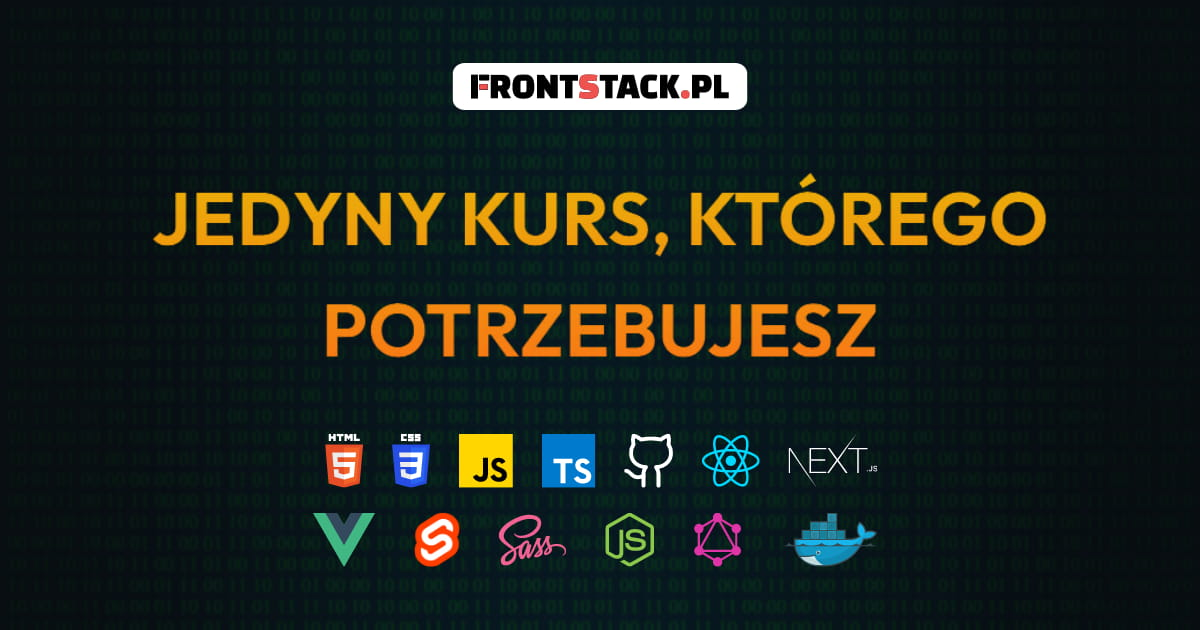
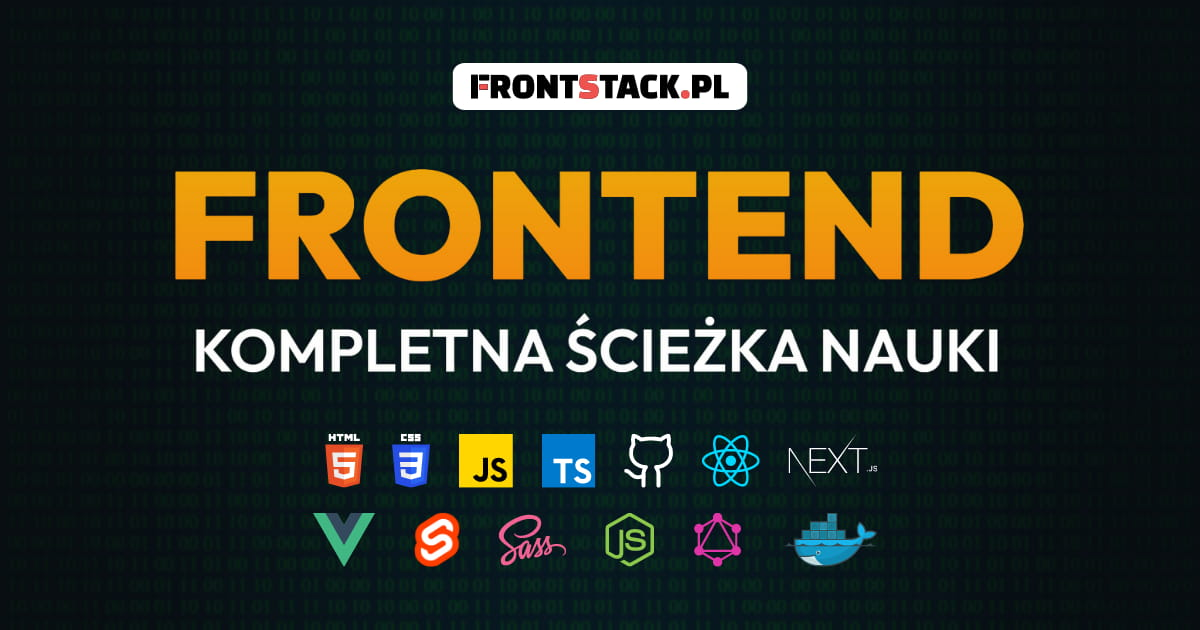
rename course

Changed region(s): [[0.1233, 0.2714, 0.8942, 0.4524], [0.1542, 0.4825, 0.8325, 0.6032]]

diff --git a/app/kurs/page.tsx b/app/kurs/page.tsx
@@ -21,14 +21,17 @@ const arrayOfTech = [
 
 export const metadata = {
   title: "Kurs - Programista Frontend",
-  description: "Jedyny kurs frontend, którego potrzebujesz.",
+  description:
+    "Kompletna ścieżka nauki frontendu dla początkujących oraz doświadczonych programistów ",
 };
 
 const Kurs = () => {
   return (
     <main className={styles.root}>
       <header className={styles.hero}>
-        <h1>Jedyny kurs, którego potrzebujesz</h1>
+        <h1>
+          Frontend <span>Kompletna ścieżka nauki</span>
+        </h1>
         <p>
           <span>
             Opanuj w końcu <strong>FRONTEND</strong>, a nie tylko
@@ -39,15 +42,16 @@ const Kurs = () => {
 
       <section className={styles.chatWrapper}>
         <div>
-          <Button as="a" href="#tldr" size="sm">
-            TL;DR
+          <Button as="a" href="#informacje" size="sm">
+            TL;DR <span>👇</span>
           </Button>
+          <small>Pomiń czat i zobacz najważniejsze informacje</small>
         </div>
         <Chat qa={qa} />
         <SendButton />
       </section>
 
-      <div id="tldr" className={styles.tldr}>
+      <div id="informacje" className={styles.info}>
         Najważniejsze informacje
       </div>
 

diff --git a/app/kurs/kurs.module.scss b/app/kurs/kurs.module.scss
@@ -4,14 +4,31 @@
   margin: 50px 0;
   text-align: center;
   h1 {
+    font-size: 72px;
+    font-weight: 900;
     text-transform: uppercase;
     @include mixins.orangeGradientText;
     @media screen and (max-width: 768px) {
-      font-size: 32px;
+      font-size: 56px;
+    }
+    span {
+      display: block;
+      font-size: 24px;
+      font-weight: 600;
+      margin-top: -20px;
+      @media screen and (max-width: 768px) {
+        font-size: 22px;
+      }
     }
   }
 
   p {
+    & > span:first-of-type {
+      margin-left: 20px;
+      @media screen and (max-width: 768px) {
+        margin-left: auto;
+      }
+    }
     strong {
       @include mixins.redGradientText;
       font-weight: bold;
@@ -23,12 +40,15 @@
   margin: 32px 0;
   & > div:first-child {
     display: flex;
+    flex-direction: column;
     justify-content: center;
+    align-items: center;
     margin: 32px;
+    text-align: center;
   }
 }
 
-.tldr {
+.info {
   margin: 64px;
   font-weight: bold;
   text-align: center;

diff --git a/app/components/hero/Hero.tsx b/app/components/hero/Hero.tsx
@@ -6,11 +6,13 @@ export const Hero = () => {
     <section className={styles.root}>
       <h1>Blog frontstack.pl</h1>
       <div>
-        <h2>Sprawdź jedyny kurs, którego potrzebujesz</h2>
+        <h2>Poznaj kompleksową ścieżkę nauki frontendu</h2>
         <p>Najlepsze materiały, serwowane w najlepszej kolejności 💪</p>
-        <Button as="link" href="/kurs" size="sm">
-          Zobacz więcej
-        </Button>
+        <div className="animate-bounce">
+          <Button as="link" href="/kurs" size="sm">
+            Zobacz więcej
+          </Button>
+        </div>
       </div>
     </section>
   );

diff --git a/app/styles/animation.scss b/app/styles/animation.scss
@@ -1,0 +1,19 @@
+@keyframes bounce {
+  0%,
+  to {
+    transform: translateY(-25%);
+    -webkit-animation-timing-function: cubic-bezier(0.8, 0, 1, 1);
+    animation-timing-function: cubic-bezier(0.8, 0, 1, 1);
+  }
+
+  50% {
+    transform: none;
+    -webkit-animation-timing-function: cubic-bezier(0, 0, 0.2, 1);
+    animation-timing-function: cubic-bezier(0, 0, 0.2, 1);
+  }
+}
+
+.animate-bounce {
+  -webkit-animation: bounce 1s infinite;
+  animation: bounce 1s infinite;
+}

diff --git a/app/blog/[slug]/components/courseBanner/CourseBanner.tsx b/app/blog/[slug]/components/courseBanner/CourseBanner.tsx
@@ -10,7 +10,7 @@ export const CourseBanner = ({ variant = "default" }: Props) => {
   return (
     <div className={`${styles.root} ${styles[variant]}`}>
       <Link href="/kurs">
-        <div>Sprawdź jedyny kurs frontendowy, którego potrzebujesz.</div>
+        <p>Sprawdź kompletną ścieżkę nauki frontendu.</p>
       </Link>
     </div>
   );

diff --git a/app/globals.scss b/app/globals.scss
@@ -2,6 +2,7 @@
 @import "styles/base.scss";
 @import "styles/code.scss";
 @import "styles/utils.scss";
+@import "styles/animation.scss";
 
 :root {
   --color-text: #f9f5ee;

diff --git a/app/blog/[slug]/components/courseBanner/courseBanner.module.scss b/app/blog/[slug]/components/courseBanner/courseBanner.module.scss
@@ -9,6 +9,11 @@
       text-decoration: none;
     }
   }
+
+  p {
+    text-shadow: 1px 2px 2px rgb(0 0 0 / 20%);
+    margin: 0;
+  }
 }
 
 .default {

diff --git a/app/components/button/Button.module.scss b/app/components/button/Button.module.scss
@@ -14,7 +14,7 @@
 }
 
 .sm {
-  padding: 4px 12px;
+  padding: 4px 12px 6px;
   min-width: 80px;
 }
 
